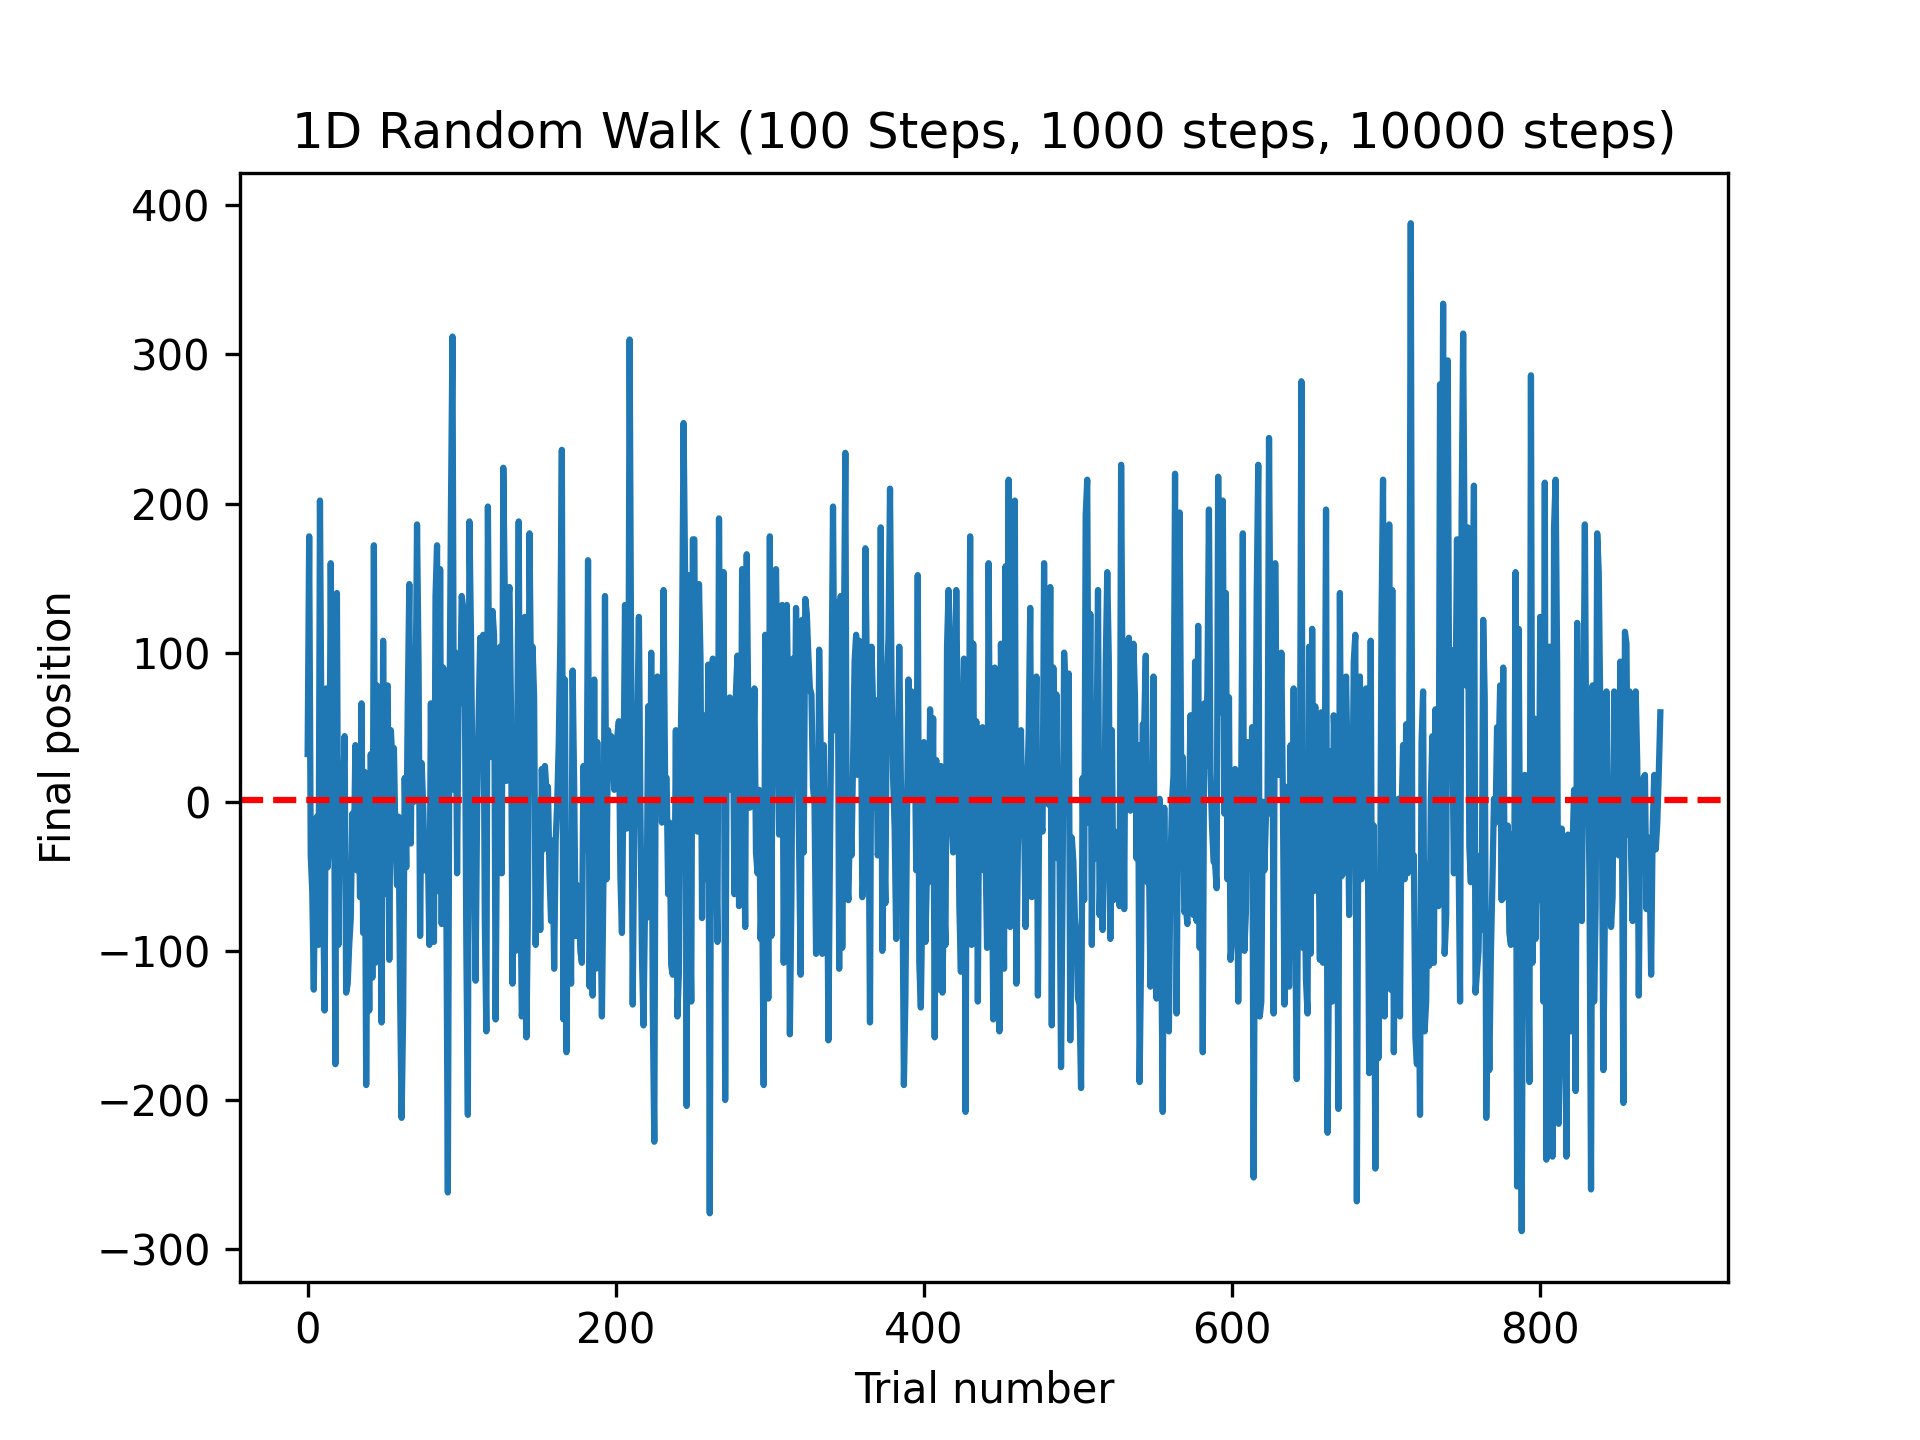
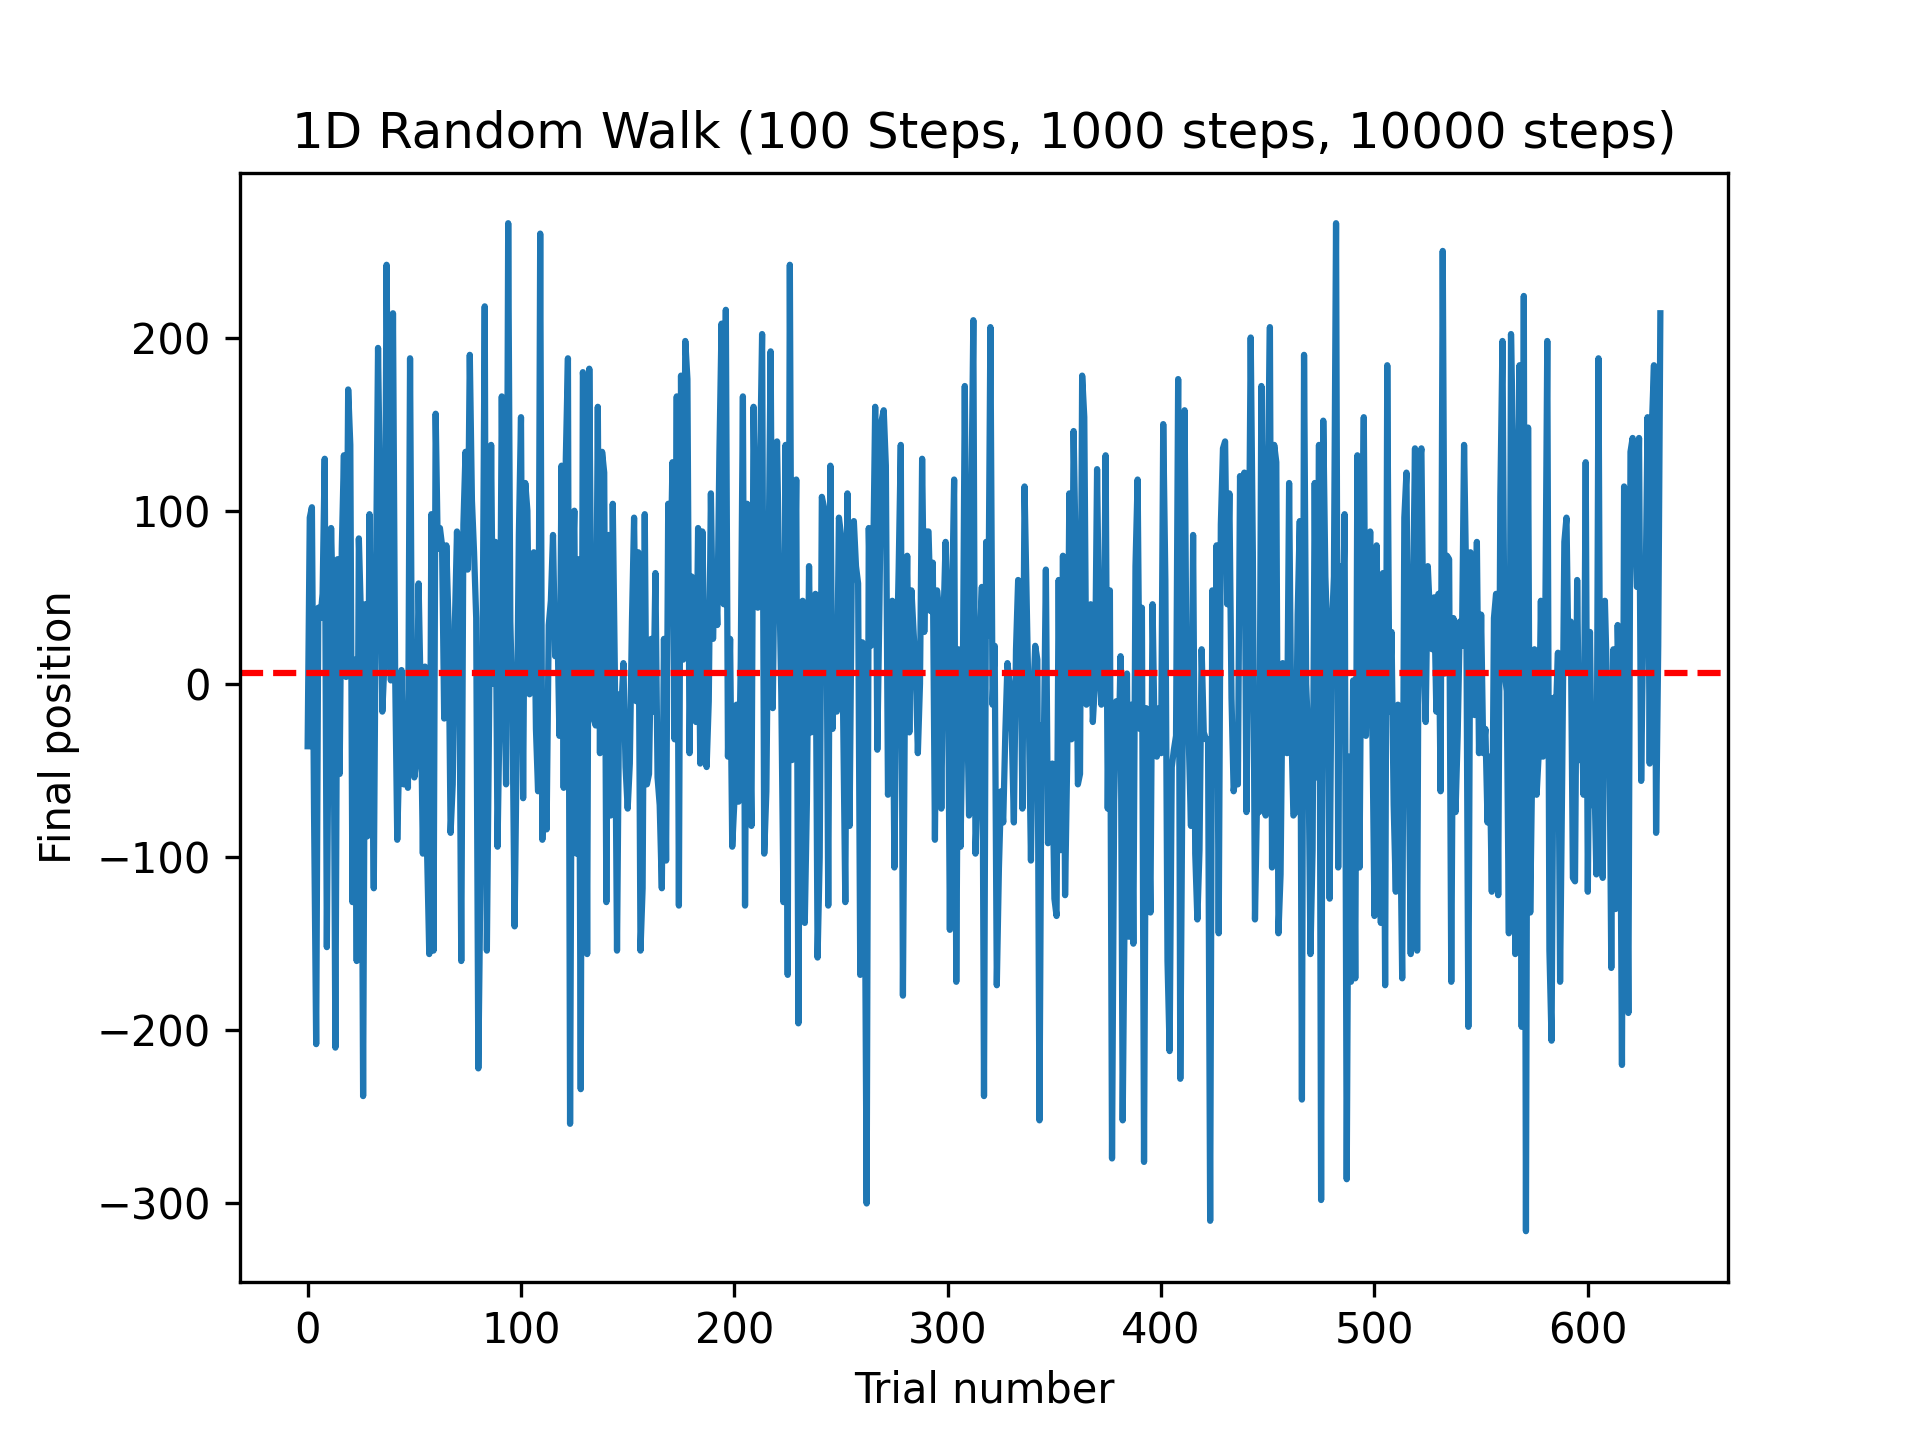
Added ability to control the number of trial counts and also exposed a method to control the number of steps in the random walk. This is a preparatory change to see the effect of step count on the mean and standard deviations

diff --git a/simulate.py b/simulate.py
@@ -29,6 +29,10 @@ class RandomWalk1D(object):
             for i in range(steps):
                 self.step()
 
+    def runSteps(self, steps):
+        for i in range(steps):
+            self.step()
+
 '''
 This new class models an experiment that runs multiple trials of a 1D random walk.
 It collects data from each trial and computes statistical measures such as mean, 
@@ -37,16 +41,16 @@ a method to plot the results using matplotlib
 '''
     
 class Experiment(object):
-    def __init__(self):
+    def __init__(self, trialcount=None):
         self.mean = 0.0
         self.stddeviation = 0.0
         self.variance = 0.0
         self.max_distance = 0
-        self.trialcount = 0
+        self.trialcount = trialcount
         self.data = []
 
     def trial(self):
-        self.trialcount = random.randint(500, 1000)
+        self.trialcount = random.randint(500, 1000) if self.trialcount is None else self.trialcount
         total = 0
         for i in range(self.trialcount):
             walk1D = RandomWalk1D()
@@ -74,13 +78,12 @@ class Experiment(object):
         plt.axvline(self.mean, color='red', linestyle='--')
         plt.savefig("final_positions_histogram.png.png")
         plt.close()
-            
+       
 
 def main():
     a = Experiment()
     a.trial()
-    print(f"After {a.trialcount} trials")
-    print(f"Mean Value {a.mean}, Max distance (absolute) {a.max_distance}, standard deviation = {a.stddeviation}, variance = {a.variance}")
+    print(f"After {a.trialcount} trials, Mean Value {a.mean}, Max distance (absolute) {a.max_distance}, standard deviation = {a.stddeviation}, variance = {a.variance} ")
     a.plot()
 
 if __name__ == '__main__':
